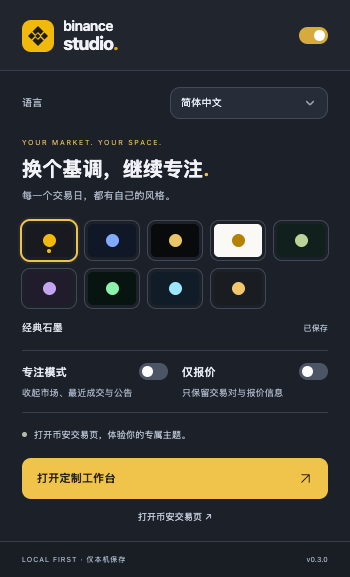
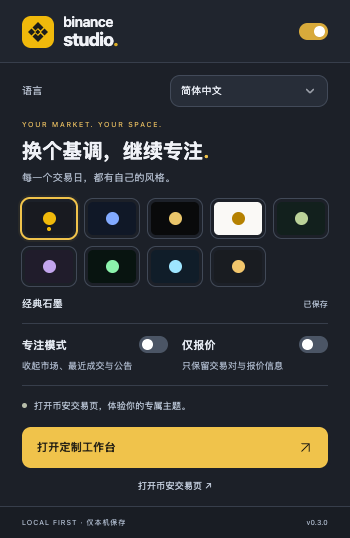
fix: keep popup within Chrome height limit
Reduce vertical spacing and scroll long status text inside the main area while keeping the header and footer visible. Cover wrapped headings and keyboard access in browser tests, and refresh bilingual popup screenshots.

diff --git a/styles/ui.css b/styles/ui.css
@@ -198,30 +198,30 @@ button:focus-visible, a:focus-visible, input:focus-visible, .import-zone:focus-w
   background: var(--bg);
   color: var(--ink);
 }
-.popup-header { padding: 18px 22px 16px; background: #20252e; border-color: var(--line); }
-.popup-main { padding: 16px 22px 18px; }
-.popup-language { margin-bottom: 18px; color: #aeb7c6; }
+.popup-header { padding: 14px 22px 12px; background: #20252e; border-color: var(--line); }
+.popup-main { padding: 12px 22px 14px; }
+.popup-language { margin-bottom: 12px; color: #aeb7c6; }
 .popup-language .studio-select { width: 158px; --control-height: 32px; }
 .popup-eyebrow { color: #d3ad5a; font-size: 7px; margin-bottom: 8px; }
 .popup-main h1 { font-size: 20px; letter-spacing: -.25px; line-height: 1.4; }
 .popup-main h1 > span { color: var(--ui-gold); }
 .popup-subtitle { color: #a4aebe; margin-top: 5px; }
-.popup-themes { margin-top: 18px; gap: 9px; }
+.popup-themes { margin-top: 14px; gap: 9px; }
 .popup-theme { height: 39px; border-color: #1c2028; outline-color: #414957; border-radius: 8px; }
 .popup-theme:hover { outline-color: #7b8799; filter: none; }
 .popup-theme.selected { outline-color: var(--ui-gold); box-shadow: 0 0 0 4px #d4aa3e12; }
-.popup-selected { color: #d8dfe9; margin-top: 12px; }
+.popup-selected { color: #d8dfe9; margin-top: 10px; }
 .popup-selected > span:last-child { color: #aab6c8; }
 .popup-selected > span.error { color: #f0a4ad; }
 .popup-focus { padding: 13px 0; margin-top: 15px; border-color: var(--line); }
 .popup-focus strong { color: #e3e8f0; }
 .popup-focus p { color: #9faabc; line-height: 1.5; max-width: 245px; }
-.popup-site-status { color: #aeb9c9; margin-top: 14px; }
+.popup-site-status { color: #aeb9c9; margin-top: 12px; }
 .popup-site-status.connected .local-dot { background: #6fc5a6; }
 .adapter-status { color: #a4b2c5; font-size: 9px; }
-.popup-settings { background: var(--ui-gold); color: #2b2516; margin-top: 16px; border-radius: 9px; }
+.popup-settings { background: var(--ui-gold); color: #2b2516; margin-top: 14px; border-radius: 9px; }
 .popup-settings:hover { background: #f5d06e; }
 .popup-binance { color: #bbc5d4; margin-top: 11px; }
-.popup-footer { background: #191d24; color: #a1adbf; border-color: var(--line); padding: 12px 22px; font-size: 7px; }
+.popup-footer { background: #191d24; color: #a1adbf; border-color: var(--line); padding: 10px 22px; font-size: 7px; }
 .popup-body .switch > span { background: #4b5565; }
 .popup-body .switch input:checked + span { background: #d8aa3b; }

diff --git a/styles/popup.css b/styles/popup.css
@@ -1,10 +1,15 @@
 .popup-body {
   width: 350px;
   min-width: 350px;
+  max-height: 600px;
+  display: flex;
+  flex-direction: column;
+  overflow: hidden;
   background: #f9faf6;
   font-size: 12px;
 }
 .popup-header {
+  flex-shrink: 0;
   display: flex;
   justify-content: space-between;
   align-items: center;
@@ -28,6 +33,9 @@
   height: 32px;
 }
 .popup-main {
+  min-height: 0;
+  overflow-y: auto;
+  overscroll-behavior: contain;
   padding: 25px;
 }
 .popup-eyebrow {
@@ -122,7 +130,7 @@
   display: grid;
   grid-template-columns: repeat(2, minmax(0, 1fr));
   gap: 14px;
-  margin-top: 15px;
+  margin-top: 12px;
   border-block: 1px solid var(--line);
 }
 .popup-modes .popup-focus { position: relative; display: block; margin: 0; padding: 12px 0; border: 0; }
@@ -169,6 +177,7 @@
   margin-top: 13px;
 }
 .popup-footer {
+  flex-shrink: 0;
   display: flex;
   justify-content: space-between;
   padding: 15px 25px;

diff --git a/README.zh-CN.md b/README.zh-CN.md
@@ -101,6 +101,8 @@
 
 设置页采用石墨灰侧栏、暖白卡片与琥珀金强调色，工具栏弹窗使用同一配色的紧凑深色界面。下拉框和颜色选择均使用自定义弹层，支持键盘操作、输入查找、焦点提示与屏幕边界适配。颜色面板提供常用色板、色相／饱和度／亮度调整及 HEX 校验，支持中英文并尊重系统「减少动态效果」。
 
+弹窗保持在 Chrome 的 600 px 高度限制内，系统字体导致英文标题换成两行时也能完整显示。连接状态或面板说明较长时，仅中间内容区滚动，顶部和底部保持可见。
+
 `npm run test:controls` 单独验证自定义菜单、颜色面板、键盘交互及弹窗尺寸。
 
 ## 界面语言
@@ -198,6 +200,7 @@ npm run test:browser
 安装 Playwright Chromium 后，运行 `npm run screenshots` 可在独立扩展环境中重新生成全部 24 张 README 截图，并检查英文界面翻译。也可用 `npm run screenshots:en` 或 `npm run screenshots:zh` 单独更新对应语言的 12 张截图。
 
 只更新中英文仅报价、插件弹窗与驾驶舱截图时，运行 `node scripts/screenshots.cjs --lang=all --only=quote`。
+只更新两张插件弹窗截图时，运行 `node scripts/screenshots.cjs --lang=all --only=popup`。
 
 可选环境变量 `BROWSER_EXECUTABLE` 指定支持扩展侧载的 Chromium / Chrome for Testing。较新版本的正式 Chrome 已限制命令行侧载，建议使用 Playwright Chromium。
 

diff --git a/README.md b/README.md
@@ -109,6 +109,8 @@ The choice is saved locally and updates open extension pages and the trading coc
 
 The console pairs a graphite sidebar with neutral cards and amber accents. The compact toolbar popup uses the same palette on a dark surface. Dropdowns and color selection use custom panels, including keyboard navigation, typeahead, visible focus states and viewport-aware placement. Color panels offer a preset palette, hue/saturation/lightness controls and validated HEX input. The controls work in both languages and respect reduced motion.
 
+The popup stays within Chrome's 600 px height limit, including when system fonts wrap the English heading onto two lines. Long connection or panel-status messages scroll inside the main area while the header and footer remain visible.
+
 ## Features
 
 ### Themes and layout
@@ -201,6 +203,7 @@ npm run test:browser
 | `npm run screenshots:en` / `npm run screenshots:zh` | Refresh the 12 screenshots for one language |
 
 To refresh only the quote-only view, toolbar popup and cockpit screenshots in both languages, run `node scripts/screenshots.cjs --lang=all --only=quote`.
+Use `node scripts/screenshots.cjs --lang=all --only=popup` to refresh just the two popup screenshots.
 
 The installed extension uses `chrome.storage.local`. The standalone preview uses `localStorage` and has separate settings; use export/import to move them. Multiple pages observe storage changes, and failed writes are reported in the UI.
 
